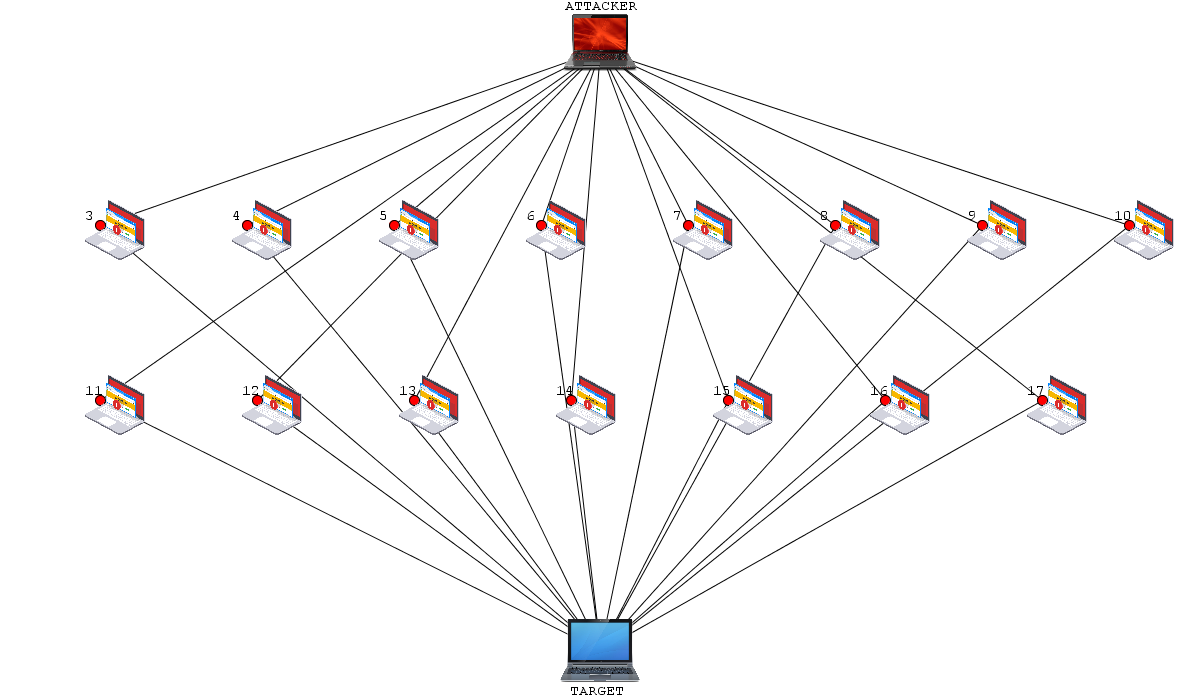
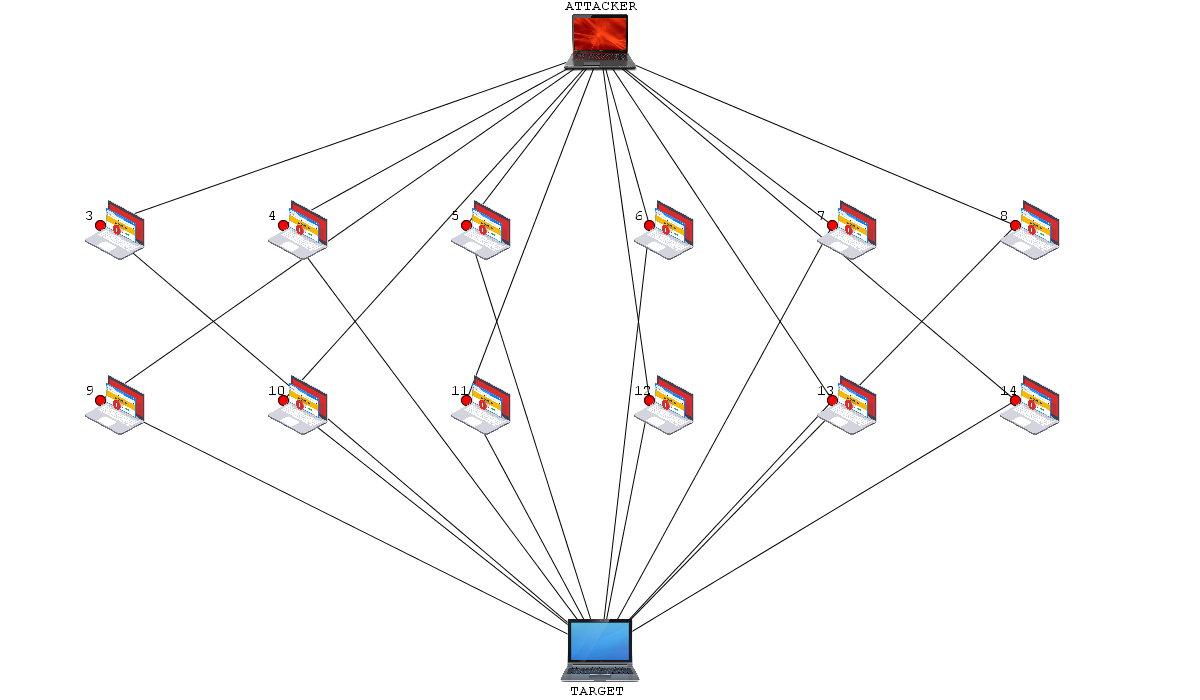
new features
-comp details moved to separate tab
-added pause/play, infect, ddos, buttons
-new tab user help (empty)

diff --git a/src/graphic/DDoSSimulation.java b/src/graphic/DDoSSimulation.java
@@ -23,14 +23,14 @@ public class DDoSSimulation {
 	
 	public static final int CYN_FLOOD = 1, ICMP_FLOOD = 2;
 	
-	public static boolean globalResourceType = true, globalDDOSType = true, globalPackageType = true, globalGraphType = true;
+	public static boolean globalResourceTypeInternal = true, globalDDOSTypeDirect = true, globalPackageTypeCYN = true, globalGraphTypeU60 = true;
 	public static int globalNumSlaves = 15, globalNumMasterSlaves;
 	
 	private JFrame window, popUpStart, ipAddressConfig;
 	private Font labelFont = new Font("Cambria", Font.BOLD, 15),
 				 descriptionFont = new Font("Cambria", Font.ITALIC, 15),	
 				 terminalFont = new Font("Lucida Sans Typewriter", Font.PLAIN, 12);
-	private JPanel configurePanel, terminalPanel, detailsPanel, historyPanel, startingPanel, ipMainPanel;
+	private JPanel configurePanel, terminalPanel, detailsPanel, historyPanel, startingPanel, ipMainPanel, computerDetailsPanel, userHelpPanel;
 	private JLabel id_detail, ipAddress_detail, ttl_detail, domain_detail, type_detail, memory_detail;
 	private JTextField numSlavesTF, ttlTF, memoryTF, packagesizeTF, numMastersTF; 
 	private boolean userInput = false, defaultInput = false, fileInput = false;
@@ -43,11 +43,11 @@ public class DDoSSimulation {
 	private int ttlConf = 4, memoryConf = 0, packageConf = 32;
 	
 	public DDoSSimulation() {
-		//makePopUpStart();
-		makeWindow();
+		makePopUpStart();
+		//makeWindow();
 		procGraphic = new ProcessingSimulation(this);
-		procGraphic.makeNetworkDefault();
-		runSimulation();
+		//procGraphic.makeNetworkDefault();
+		//runSimulation();
 	}
 	
 	private void makePopUpStart() {
@@ -116,10 +116,10 @@ public class DDoSSimulation {
 		
 		confirm.addActionListener(new ActionListener() {
 			public void actionPerformed(ActionEvent e) {
-				globalResourceType = internalResources.isSelected();
-				globalDDOSType = direct.isSelected();
-				globalPackageType = cyn.isSelected();
-				globalGraphType = under60.isSelected();
+				globalResourceTypeInternal = internalResources.isSelected();
+				globalDDOSTypeDirect = direct.isSelected();
+				globalPackageTypeCYN = cyn.isSelected();
+				globalGraphTypeU60 = under60.isSelected();
 				
 				makeWindow();
 			}
@@ -127,7 +127,7 @@ public class DDoSSimulation {
 	}
 	
 	private void makeWindow() {
-		//popUpStart.setVisible(false);
+		popUpStart.setVisible(false);
 		
 		window = new JFrame("DDoS simulation");
 		window.setSize(WINDOW_WIDTH, WINDOW_HEIGHT); 
@@ -145,6 +145,8 @@ public class DDoSSimulation {
 		JTabbedPane tabs = new JTabbedPane();
 		terminalPanel = new JPanel();
 		configurePanel = new JPanel(new BorderLayout());
+		computerDetailsPanel = new JPanel(new BorderLayout());
+		userHelpPanel = new JPanel(new BorderLayout());
 		
 		// configure tab -------------------------------------------------------------------------------
 		JPanel cSlavesConfig = new JPanel(new GridLayout(6,3,3,3));
@@ -167,7 +169,25 @@ public class DDoSSimulation {
 		cSlavesConfig.add(dummy11);
 		cSlavesConfig.add(submitConfiguration);
 		
+		
+		//********************************88
+		JPanel cAttackOptions = new JPanel(new GridLayout(3,1,3,3));
+		cAttackOptions.setBorder(BorderFactory.createTitledBorder("DDOS Attack options"));
+		
+		JButton startInfectingMasters = new JButton("Start infecting master zombies");
+		cAttackOptions.add(startInfectingMasters);
+		
+		JButton startDDoS = new JButton("Start DDOS attack");
+		startDDoS.setEnabled(false);
+		cAttackOptions.add(startDDoS);
+		
+		JButton pausePlay = new JButton("Pause/Play simulation");
+		pausePlay.setEnabled(false);
+		cAttackOptions.add(pausePlay);
+		//**************************************88
+		
 		configurePanel.add(cSlavesConfig, BorderLayout.NORTH);
+		configurePanel.add(cAttackOptions, BorderLayout.CENTER);
 		
 		// details panel -------------------------------------------------------------------------------
 		detailsPanel = new JPanel(new GridLayout(6, 3, 3, 3));
@@ -202,7 +222,7 @@ public class DDoSSimulation {
 		detailsPanel.add(Memory);		detailsPanel.add(memory_detail);		detailsPanel.add(dummy5);
 		detailsPanel.add(TTL);			detailsPanel.add(ttl_detail);			detailsPanel.add(dummy6);
 		
-		configurePanel.add(detailsPanel, BorderLayout.CENTER);
+		computerDetailsPanel.add(detailsPanel, BorderLayout.NORTH);
 		detailsPanel.setVisible(false); 	// -> will be visible when mouse click on component
 		//history panel --------------------------------------------------------------------------------
 		
@@ -229,7 +249,7 @@ public class DDoSSimulation {
 		//historyPanel.add(sent);
 		historyPanel.add(sp_packSent);
 		
-		configurePanel.add(historyPanel, BorderLayout.SOUTH);
+		computerDetailsPanel.add(historyPanel, BorderLayout.CENTER);
 		historyPanel.setVisible(false); 	// -> will be visible when mouse click on component
 		// terminal tab --------------------------------------------------------------------------------
 		
@@ -280,8 +300,15 @@ public class DDoSSimulation {
 		
 		terminalPanel.add(sp);
 		
+		// USER HELP TAB------------------------------------------------------------------------------------------
+		
+		
+		//---------------------------------------------------------------------------------------------------------
+		
 		tabs.addTab("Configure", configurePanel);
 		tabs.addTab("Terminal", terminalPanel);
+		tabs.addTab("Computer details", computerDetailsPanel);
+		tabs.addTab("User help", userHelpPanel);
 		window.add(tabs);
 		
 		// 'Configure' button -> locks textfields (for new parameters new simulation must be started)
@@ -295,6 +322,7 @@ public class DDoSSimulation {
 				memoryConf = Integer.parseInt(memoryTF.getText());
 				packageConf = Integer.parseInt(packagesizeTF.getText());
 				
+				numMastersTF.setEditable(false);
 				numSlavesTF.setEditable(false);
 				ttlTF.setEditable(false);
 				memoryTF.setEditable(false);
@@ -302,6 +330,36 @@ public class DDoSSimulation {
 				
 				submitConfiguration.setEnabled(false);
 				makeIPAddressConfigWindow();
+			}
+		});
+		
+		startInfectingMasters.addActionListener(new ActionListener() {
+			public void actionPerformed(ActionEvent e) {
+				
+				procGraphic.infectSlaves();
+				startInfectingMasters.setEnabled(false);
+				startDDoS.setEnabled(true);
+				pausePlay.setEnabled(true);
+			}
+		});
+		
+		startDDoS.addActionListener(new ActionListener() {
+			public void actionPerformed(ActionEvent e) {
+				
+				procGraphic.startDDos();
+				startDDoS.setEnabled(false);
+				pausePlay.setEnabled(true);
+			}
+		});
+		
+		pausePlay.addActionListener(new ActionListener() {
+			public void actionPerformed(ActionEvent e) {
+				if (procGraphic.getStage() == ProcessingSimulation.STAGE_PAUSE) { //continue
+					procGraphic.continueSimulation();
+				}
+				else { //pause
+					procGraphic.pauseSimulation();
+				}
 			}
 		});
 		

diff --git a/src/graphic/ProcessingSimulation.java b/src/graphic/ProcessingSimulation.java
@@ -15,11 +15,13 @@ public class ProcessingSimulation extends PApplet{
 							 NODES_PER_LINE = 10, PIXEL_START_TOP = 50;
 	
 	public static final int STAGE_INFECTING_VIRUS = 1, STAGE_INIT_NETWORK = 2, STAGE_IDLE = 3, STAGE_ATTACKING = 4,
-							STAGE_GEN = 5, STAGE_FINISHED = 6;
+							STAGE_GEN = 5, STAGE_FINISHED = 6, STAGE_PAUSE = 7;
 	
 	public static final int TIMER_ACK_PROCESSING = 2;
 	
 	public static int speedUp = 1;
+	
+	public static int stageBeforePause = 2;
 	
 	private int infected = 0;
 	private long lastPackageWave = 0;
@@ -201,32 +203,34 @@ public class ProcessingSimulation extends PApplet{
 	}
 	
 	public void draw() {
-		update();
-		
-		if (newImageToLoad == true) {
-			networkBackground = loadImage("initalNetwork.png");
-			newImageToLoad = false;
-		}
-		
-		if (stage != ProcessingSimulation.STAGE_INIT_NETWORK) {
-			if (firstImageLoad == false) {
+		if (!isPaused()) {
+			update();
+			
+			if (newImageToLoad == true) {
 				networkBackground = loadImage("initalNetwork.png");
-				firstImageLoad = true;
+				newImageToLoad = false;
 			}
-			image(networkBackground, 0, 0, APPLET_WIDTH, APPLET_HEIGHT);
+			
+			if (stage != ProcessingSimulation.STAGE_INIT_NETWORK) {
+				if (firstImageLoad == false) {
+					networkBackground = loadImage("initalNetwork.png");
+					firstImageLoad = true;
+				}
+				image(networkBackground, 0, 0, APPLET_WIDTH, APPLET_HEIGHT);
+			}
+			
+			// insert part for pause stage
+			if (mousePressed == true) checkClickedComputer(mouseX, mouseY);
+			
+			if (stage == ProcessingSimulation.STAGE_ATTACKING || stage == ProcessingSimulation.STAGE_INFECTING_VIRUS) {
+				drawAllTravellingPackages();
+				drawAllAckPackages();
+			}
+			drawMemoryInfoCircle(angleTargetMemory);
+			
+			if (network.getTargetNode().getComputer().isMemoryFull())
+				stage = ProcessingSimulation.STAGE_FINISHED;
 		}
-		
-		// insert part for pause stage
-		if (mousePressed == true) checkClickedComputer(mouseX, mouseY);
-		
-		if (stage == ProcessingSimulation.STAGE_ATTACKING || stage == ProcessingSimulation.STAGE_INFECTING_VIRUS) {
-			drawAllTravellingPackages();
-			drawAllAckPackages();
-		}
-		drawMemoryInfoCircle(angleTargetMemory);
-		
-		if (network.getTargetNode().getComputer().isMemoryFull())
-			stage = ProcessingSimulation.STAGE_FINISHED;
 	}
 	
 	private void drawMemoryInfoCircle(float angleTargetMemory) {
@@ -457,6 +461,37 @@ public class ProcessingSimulation extends PApplet{
 		Node targetNode = new Node(network, targetComputer, APPLET_WIDTH/2, APPLET_HEIGHT-50);
 		network.addNode(targetNode);
 		
+		if (DDoSSimulation.globalResourceTypeInternal) {
+			if (DDoSSimulation.globalDDOSTypeDirect) {
+				if (DDoSSimulation.globalGraphTypeU60) { //internal,direct, u60
+					
+				} else { // internal, direct, a60
+					
+				}
+			} else { 
+				if (DDoSSimulation.globalGraphTypeU60) { //internal,reflected, u60
+					
+				} else { // internal, reflected, a60
+					
+				}
+			}
+			
+		} else {  // network
+			if (DDoSSimulation.globalDDOSTypeDirect) {
+				if (DDoSSimulation.globalGraphTypeU60) { //network,direct, u60
+					
+				} else { // network, direct, a60
+					
+				}
+			} else { 
+				if (DDoSSimulation.globalGraphTypeU60) { //network,reflected, u60
+					
+				} else { // network, reflected, a60
+					
+				}
+			}
+		}
+		
 		
 		if ( DDoSSimulation.globalNumSlaves > 40) 							makeNetworkForManyReflected(masterNode, targetNode);
 		else if (DDoSSimulation.globalNumSlaves <= 60 && DDoSSimulation.globalNumSlaves > 50) { makeNetworkIn_n_lines(masterNode, targetNode, 6); numLines = 6; }
@@ -626,4 +661,15 @@ public class ProcessingSimulation extends PApplet{
 	public JTextArea getTerminal() { return GUIcontrol.getTerminal(); }
 	
 	public int getStage() { return stage; }
+	
+	public void continueSimulation() {
+		stage = stageBeforePause;
+	}
+	
+	public void pauseSimulation () {
+		stageBeforePause = stage;
+		stage = STAGE_PAUSE;
+	}
+	
+	public boolean isPaused() { return stage == STAGE_PAUSE; }
 }
